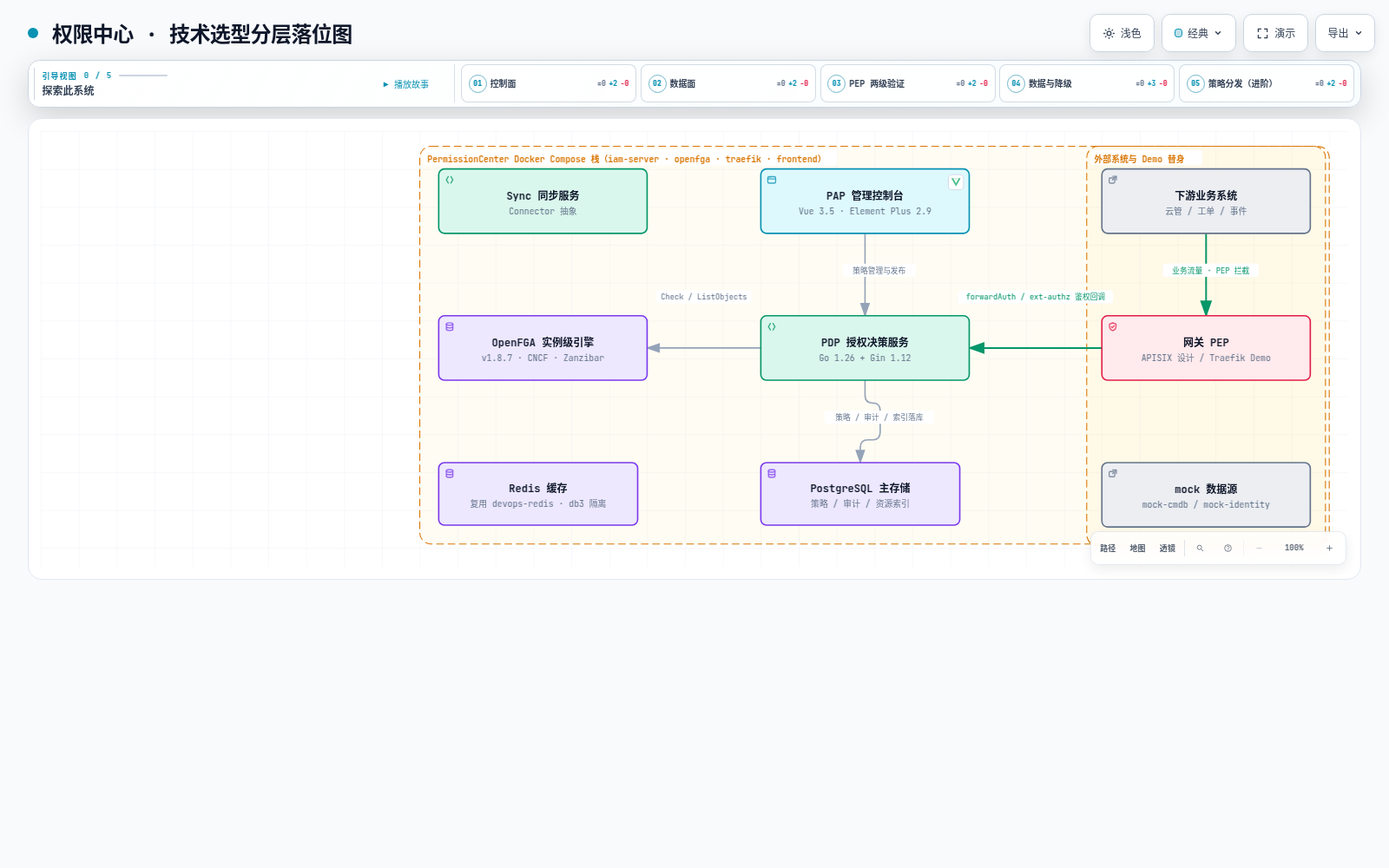
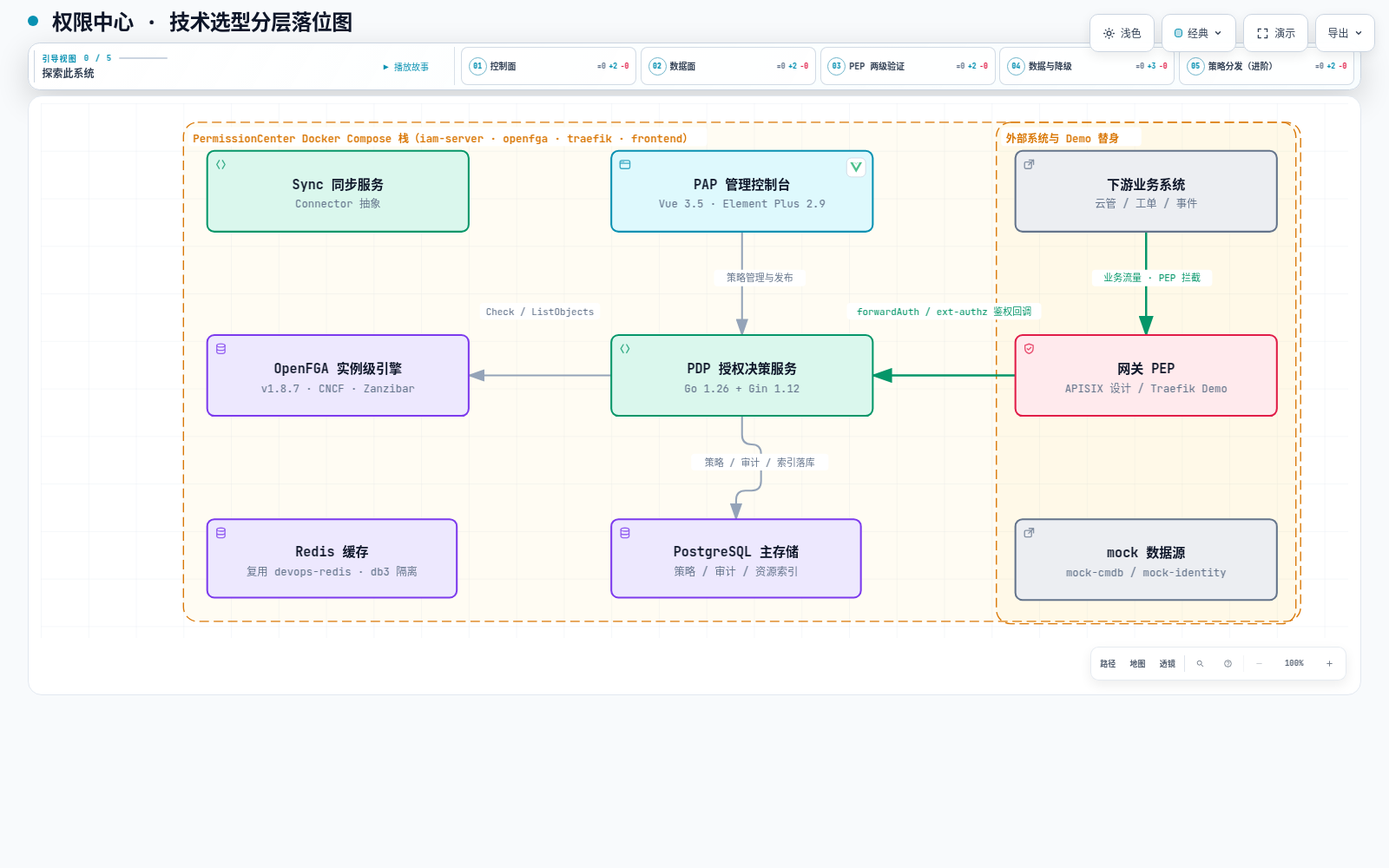
visuals: 03 图布局修正——viewBox 压缩至内容实际尺寸(1100x450)，消除左侧/底部空白

diff --git a/visuals/PermissionCenter/tech-stack-layers.html b/visuals/PermissionCenter/tech-stack-layers.html
@@ -5130,7 +5130,7 @@ OTHER DEALINGS IN THE FONT SOFTWARE.
     <!-- Main Diagram -->
     <div class="diagram-container" data-detail-level="read"
          data-preset-badge-editorial-plate="ARCHIFY / 图版 04">
-      <svg viewBox="0 0 1380 460" role="img" lang="zh-CN" aria-labelledby="archify-diagram-title archify-diagram-description" data-preset="classic" data-quality-profile="showcase">
+      <svg viewBox="0 0 1100 450" role="img" lang="zh-CN" aria-labelledby="archify-diagram-title archify-diagram-description" data-preset="classic" data-quality-profile="showcase">
         <title id="archify-diagram-title">权限中心 · 技术选型分层落位图</title>
         <desc id="archify-diagram-description">由 Archify 生成的架构图。</desc>
         <!-- Definitions -->
@@ -5156,171 +5156,171 @@ OTHER DEALINGS IN THE FONT SOFTWARE.
         <rect width="100%" height="100%" fill="url(#grid)" />
 
         <!-- Boundaries (behind everything) -->
-        <rect data-graph-role="structural-frame" data-composition-frame-kind="region" data-composition-frame-id="0" data-composition-frame-label="PermissionCenter Docker Compose 栈（iam-server · openfga · traefik · frontend）" x="400" y="16" width="960" height="420" rx="12" class="c-region" stroke-width="1"/>
+        <rect data-graph-role="structural-frame" data-composition-frame-kind="region" data-composition-frame-id="0" data-composition-frame-label="PermissionCenter Docker Compose 栈（iam-server · openfga · traefik · frontend）" x="120" y="16" width="940" height="420" rx="12" class="c-region" stroke-width="1"/>
 
-        <rect data-graph-role="structural-frame" data-composition-frame-kind="region" data-composition-frame-id="1" data-composition-frame-label="外部系统与 Demo 替身" x="1104" y="16" width="252" height="422" rx="12" class="c-region" stroke-width="1"/>
+        <rect data-graph-role="structural-frame" data-composition-frame-kind="region" data-composition-frame-id="1" data-composition-frame-label="外部系统与 Demo 替身" x="804" y="16" width="252" height="422" rx="12" class="c-region" stroke-width="1"/>
 
         <!-- Connection paths (before components for correct z-order) -->
-        <path data-edge-from="apps" data-edge-to="gw" data-edge-label="业务流量 · PEP 拦截" data-edge-key="0" data-composition-points="1230,108;1230,195" d="M 1230 108 L 1230 195" class="a-emphasis" stroke-width="1.8" marker-end="url(#arrowhead-emphasis)"/>
-        <path data-edge-from="gw" data-edge-to="pdp" data-edge-label="forwardAuth / ext-authz 鉴权回调" data-edge-key="1" data-composition-points="1120,229;980,229" d="M 1120 229 L 980 229" class="a-emphasis" stroke-width="1.8" marker-end="url(#arrowhead-emphasis)"/>
-        <path data-edge-from="pap" data-edge-to="pdp" data-edge-label="策略管理与发布" data-edge-key="2" data-composition-points="870,108;870,195" d="M 870 108 L 870 195" class="a-default" stroke-width="1.5" marker-end="url(#arrowhead)"/>
-        <path data-edge-from="pdp" data-edge-to="openfga" data-edge-label="Check / ListObjects" data-edge-key="3" data-composition-points="760,229;640,229" d="M 760 229 L 640 229" class="a-default" stroke-width="1.5" marker-end="url(#arrowhead)"/>
-        <path data-edge-from="pdp" data-edge-to="pg" data-edge-label="策略 / 审计 / 索引落库" data-edge-key="4" data-composition-points="870,263;870,287;886,287;886,326;865,326;865,350" d="M 870 263 L 870 279 Q 870 287 878 287 L 878 287 Q 886 287 886 295 L 886 318 Q 886 326 878 326 L 873 326 Q 865 326 865 334 L 865 350" class="a-default" stroke-width="1.5" marker-end="url(#arrowhead)"/>
+        <path data-edge-from="apps" data-edge-to="gw" data-edge-label="业务流量 · PEP 拦截" data-edge-key="0" data-composition-points="930,108;930,195" d="M 930 108 L 930 195" class="a-emphasis" stroke-width="1.8" marker-end="url(#arrowhead-emphasis)"/>
+        <path data-edge-from="gw" data-edge-to="pdp" data-edge-label="forwardAuth / ext-authz 鉴权回调" data-edge-key="1" data-composition-points="820,229;700,229" d="M 820 229 L 700 229" class="a-emphasis" stroke-width="1.8" marker-end="url(#arrowhead-emphasis)"/>
+        <path data-edge-from="pap" data-edge-to="pdp" data-edge-label="策略管理与发布" data-edge-key="2" data-composition-points="590,108;590,195" d="M 590 108 L 590 195" class="a-default" stroke-width="1.5" marker-end="url(#arrowhead)"/>
+        <path data-edge-from="pdp" data-edge-to="openfga" data-edge-label="Check / ListObjects" data-edge-key="3" data-composition-points="480,229;360,229" d="M 480 229 L 360 229" class="a-default" stroke-width="1.5" marker-end="url(#arrowhead)"/>
+        <path data-edge-from="pdp" data-edge-to="pg" data-edge-label="策略 / 审计 / 索引落库" data-edge-key="4" data-composition-points="590,263;590,287;606,287;606,326;585,326;585,350" d="M 590 263 L 590 279 Q 590 287 598 287 L 598 287 Q 606 287 606 295 L 606 318 Q 606 326 598 326 L 593 326 Q 585 326 585 334 L 585 350" class="a-default" stroke-width="1.5" marker-end="url(#arrowhead)"/>
 
         <!-- Components -->
         <g id="node-sync" data-node-id="sync" data-node-label="Sync 同步服务" tabindex="0" role="button" aria-label="聚焦Sync 同步服务，Connector 抽象, PermissionCenter Docker Compose 栈（iam-server · openfga · traefik · frontend）" aria-pressed="false" data-node-kind="backend" data-node-sublabel="Connector 抽象" data-node-tag="OpenAPI→模板 · CMDB→索引 · SCIM 身份" data-node-context="PermissionCenter Docker Compose 栈（iam-server · openfga · traefik · frontend）">
           <title>Sync 同步服务 · Connector 抽象 · PermissionCenter Docker Compose 栈（iam-server · openfga · traefik · frontend） · OpenAPI→模板 · CMDB→索引 · SCIM 身份</title>
-          <rect x="420" y="40" width="220" height="68" rx="6" class="c-mask"/>
-          <rect x="420" y="40" width="220" height="68" rx="6" class="c-backend" stroke-width="1.5"/>
-          <g aria-hidden="true" data-semantic-sigil="backend" class="semantic-sigil s-backend" transform="translate(426 46) scale(0.6875)">
+          <rect x="140" y="40" width="220" height="68" rx="6" class="c-mask"/>
+          <rect x="140" y="40" width="220" height="68" rx="6" class="c-backend" stroke-width="1.5"/>
+          <g aria-hidden="true" data-semantic-sigil="backend" class="semantic-sigil s-backend" transform="translate(146 46) scale(0.6875)">
             <path d="M6 3 3 8l3 5M10 3l3 5-3 5"/>
           </g>
-          <text data-node-label="" data-detail-anchor="" x="530" y="72" class="t-primary" font-size="11" font-weight="600" text-anchor="middle">Sync 同步服务</text>
-        <text data-detail="context" x="530" y="88" class="t-muted" font-size="9" text-anchor="middle">Connector 抽象</text>
-        <text data-detail="fine" x="530" y="100" class="t-backend" font-size="7" text-anchor="middle">OpenAPI→模板 · CMDB→索引 · SCIM 身份</text>
+          <text data-node-label="" data-detail-anchor="" x="250" y="72" class="t-primary" font-size="11" font-weight="600" text-anchor="middle">Sync 同步服务</text>
+        <text data-detail="context" x="250" y="88" class="t-muted" font-size="9" text-anchor="middle">Connector 抽象</text>
+        <text data-detail="fine" x="250" y="100" class="t-backend" font-size="7" text-anchor="middle">OpenAPI→模板 · CMDB→索引 · SCIM 身份</text>
         </g>
 
         <g id="node-pap" data-node-id="pap" data-node-label="PAP 管理控制台" tabindex="0" role="button" aria-label="聚焦PAP 管理控制台，Vue 3.5 · Element Plus 2.9, PermissionCenter Docker Compose 栈（iam-server · openfga · traefik · frontend）, Vue.js" aria-pressed="false" data-node-kind="frontend" data-node-sublabel="Vue 3.5 · Element Plus 2.9" data-node-tag="以我为中心工作台 · 弱管理员" data-node-context="PermissionCenter Docker Compose 栈（iam-server · openfga · traefik · frontend）" data-node-brand="Vue.js" data-node-brand-id="vue" data-node-brand-status="preset" data-node-brand-source="https://github.com/vuejs/art/blob/a1c78b74569b70a25300925b4eacfefcc143b8f6/logo.svg">
           <title>PAP 管理控制台 · Vue 3.5 · Element Plus 2.9 · PermissionCenter Docker Compose 栈（iam-server · openfga · traefik · frontend） · 以我为中心工作台 · 弱管理员 · Vue.js</title>
-          <rect x="760" y="40" width="220" height="68" rx="6" class="c-mask"/>
-          <rect x="760" y="40" width="220" height="68" rx="6" class="c-frontend" stroke-width="1.5"/>
-          <g aria-hidden="true" data-semantic-sigil="frontend" class="semantic-sigil s-frontend" transform="translate(766 46) scale(0.6875)">
+          <rect x="480" y="40" width="220" height="68" rx="6" class="c-mask"/>
+          <rect x="480" y="40" width="220" height="68" rx="6" class="c-frontend" stroke-width="1.5"/>
+          <g aria-hidden="true" data-semantic-sigil="frontend" class="semantic-sigil s-frontend" transform="translate(486 46) scale(0.6875)">
             <rect x="2" y="3" width="12" height="10" rx="2"/>
             <path d="M2 6.5h12"/>
             <circle cx="4.1" cy="4.8" r=".7" class="sigil-fill"/>
             <circle cx="6.3" cy="4.8" r=".7" class="sigil-fill"/>
           </g>
-          <g aria-hidden="true" data-brand-mark="vue" data-brand-title="Vue.js" data-brand-status="preset" data-brand-source="https://github.com/vuejs/art/blob/a1c78b74569b70a25300925b4eacfefcc143b8f6/logo.svg" class="brand-mark" transform="translate(958 46)">
+          <g aria-hidden="true" data-brand-mark="vue" data-brand-title="Vue.js" data-brand-status="preset" data-brand-source="https://github.com/vuejs/art/blob/a1c78b74569b70a25300925b4eacfefcc143b8f6/logo.svg" class="brand-mark" transform="translate(678 46)">
             <rect width="16" height="16" rx="4" class="brand-mark-badge"/>
             <path d="M24,1.61H14.06L12,5.16,9.94,1.61H0L12,22.39ZM12,14.08,5.16,2.23H9.59L12,6.41l2.41-4.18h4.43Z" transform="translate(3 3) scale(0.4166666666666667)" fill="#4FC08D"/>
             <rect width="16" height="16" rx="4" class="brand-mark-frame"/>
           </g>
-          <text data-node-label="" data-detail-anchor="" x="870" y="72" class="t-primary" font-size="11" font-weight="600" text-anchor="middle">PAP 管理控制台</text>
-        <text data-detail="context" x="870" y="88" class="t-muted" font-size="9" text-anchor="middle">Vue 3.5 · Element Plus 2.9</text>
-        <text data-detail="fine" x="870" y="100" class="t-frontend" font-size="7" text-anchor="middle">以我为中心工作台 · 弱管理员</text>
+          <text data-node-label="" data-detail-anchor="" x="590" y="72" class="t-primary" font-size="11" font-weight="600" text-anchor="middle">PAP 管理控制台</text>
+        <text data-detail="context" x="590" y="88" class="t-muted" font-size="9" text-anchor="middle">Vue 3.5 · Element Plus 2.9</text>
+        <text data-detail="fine" x="590" y="100" class="t-frontend" font-size="7" text-anchor="middle">以我为中心工作台 · 弱管理员</text>
         </g>
 
         <g id="node-openfga" data-node-id="openfga" data-node-label="OpenFGA 实例级引擎" tabindex="0" role="button" aria-label="聚焦OpenFGA 实例级引擎，v1.8.7 · CNCF · Zanzibar, PermissionCenter Docker Compose 栈（iam-server · openfga · traefik · frontend）" aria-pressed="false" data-node-kind="database" data-node-sublabel="v1.8.7 · CNCF · Zanzibar" data-node-tag="Check / ListObjects · 自有 datastore" data-node-context="PermissionCenter Docker Compose 栈（iam-server · openfga · traefik · frontend）">
           <title>OpenFGA 实例级引擎 · v1.8.7 · CNCF · Zanzibar · PermissionCenter Docker Compose 栈（iam-server · openfga · traefik · frontend） · Check / ListObjects · 自有 datastore</title>
-          <rect x="420" y="195" width="220" height="68" rx="6" class="c-mask"/>
-          <rect x="420" y="195" width="220" height="68" rx="6" class="c-database" stroke-width="1.5"/>
-          <g aria-hidden="true" data-semantic-sigil="database" class="semantic-sigil s-database" transform="translate(426 201) scale(0.6875)">
+          <rect x="140" y="195" width="220" height="68" rx="6" class="c-mask"/>
+          <rect x="140" y="195" width="220" height="68" rx="6" class="c-database" stroke-width="1.5"/>
+          <g aria-hidden="true" data-semantic-sigil="database" class="semantic-sigil s-database" transform="translate(146 201) scale(0.6875)">
             <ellipse cx="8" cy="4" rx="5" ry="2"/>
             <path d="M3 4v8c0 1.1 2.2 2 5 2s5-.9 5-2V4M3 8c0 1.1 2.2 2 5 2s5-.9 5-2"/>
           </g>
-          <text data-node-label="" data-detail-anchor="" x="530" y="227" class="t-primary" font-size="11" font-weight="600" text-anchor="middle">OpenFGA 实例级引擎</text>
-        <text data-detail="context" x="530" y="243" class="t-muted" font-size="9" text-anchor="middle">v1.8.7 · CNCF · Zanzibar</text>
-        <text data-detail="fine" x="530" y="255" class="t-database" font-size="7" text-anchor="middle">Check / ListObjects · 自有 datastore</text>
+          <text data-node-label="" data-detail-anchor="" x="250" y="227" class="t-primary" font-size="11" font-weight="600" text-anchor="middle">OpenFGA 实例级引擎</text>
+        <text data-detail="context" x="250" y="243" class="t-muted" font-size="9" text-anchor="middle">v1.8.7 · CNCF · Zanzibar</text>
+        <text data-detail="fine" x="250" y="255" class="t-database" font-size="7" text-anchor="middle">Check / ListObjects · 自有 datastore</text>
         </g>
 
         <g id="node-pdp" data-node-id="pdp" data-node-label="PDP 授权决策服务" tabindex="0" role="button" aria-label="聚焦PDP 授权决策服务，Go 1.26 + Gin 1.12, PermissionCenter Docker Compose 栈（iam-server · openfga · traefik · frontend）" aria-pressed="false" data-node-kind="backend" data-node-sublabel="Go 1.26 + Gin 1.12" data-node-tag="动作级 Casbin · OAuth M2M · 无状态扩展" data-node-context="PermissionCenter Docker Compose 栈（iam-server · openfga · traefik · frontend）">
           <title>PDP 授权决策服务 · Go 1.26 + Gin 1.12 · PermissionCenter Docker Compose 栈（iam-server · openfga · traefik · frontend） · 动作级 Casbin · OAuth M2M · 无状态扩展</title>
-          <rect x="760" y="195" width="220" height="68" rx="6" class="c-mask"/>
-          <rect x="760" y="195" width="220" height="68" rx="6" class="c-backend" stroke-width="1.5"/>
-          <g aria-hidden="true" data-semantic-sigil="backend" class="semantic-sigil s-backend" transform="translate(766 201) scale(0.6875)">
+          <rect x="480" y="195" width="220" height="68" rx="6" class="c-mask"/>
+          <rect x="480" y="195" width="220" height="68" rx="6" class="c-backend" stroke-width="1.5"/>
+          <g aria-hidden="true" data-semantic-sigil="backend" class="semantic-sigil s-backend" transform="translate(486 201) scale(0.6875)">
             <path d="M6 3 3 8l3 5M10 3l3 5-3 5"/>
           </g>
-          <text data-node-label="" data-detail-anchor="" x="870" y="227" class="t-primary" font-size="11" font-weight="600" text-anchor="middle">PDP 授权决策服务</text>
-        <text data-detail="context" x="870" y="243" class="t-muted" font-size="9" text-anchor="middle">Go 1.26 + Gin 1.12</text>
-        <text data-detail="fine" x="870" y="255" class="t-backend" font-size="7" text-anchor="middle">动作级 Casbin · OAuth M2M · 无状态扩展</text>
+          <text data-node-label="" data-detail-anchor="" x="590" y="227" class="t-primary" font-size="11" font-weight="600" text-anchor="middle">PDP 授权决策服务</text>
+        <text data-detail="context" x="590" y="243" class="t-muted" font-size="9" text-anchor="middle">Go 1.26 + Gin 1.12</text>
+        <text data-detail="fine" x="590" y="255" class="t-backend" font-size="7" text-anchor="middle">动作级 Casbin · OAuth M2M · 无状态扩展</text>
         </g>
 
         <g id="node-redis" data-node-id="redis" data-node-label="Redis 缓存" tabindex="0" role="button" aria-label="聚焦Redis 缓存，复用 devops-redis · db3 隔离, PermissionCenter Docker Compose 栈（iam-server · openfga · traefik · frontend）" aria-pressed="false" data-node-kind="database" data-node-sublabel="复用 devops-redis · db3 隔离" data-node-tag="策略/决策缓存 · Streams 两用" data-node-context="PermissionCenter Docker Compose 栈（iam-server · openfga · traefik · frontend）">
           <title>Redis 缓存 · 复用 devops-redis · db3 隔离 · PermissionCenter Docker Compose 栈（iam-server · openfga · traefik · frontend） · 策略/决策缓存 · Streams 两用</title>
-          <rect x="420" y="350" width="210" height="66" rx="6" class="c-mask"/>
-          <rect x="420" y="350" width="210" height="66" rx="6" class="c-database" stroke-width="1.5"/>
-          <g aria-hidden="true" data-semantic-sigil="database" class="semantic-sigil s-database" transform="translate(426 356) scale(0.6875)">
+          <rect x="140" y="350" width="210" height="66" rx="6" class="c-mask"/>
+          <rect x="140" y="350" width="210" height="66" rx="6" class="c-database" stroke-width="1.5"/>
+          <g aria-hidden="true" data-semantic-sigil="database" class="semantic-sigil s-database" transform="translate(146 356) scale(0.6875)">
             <ellipse cx="8" cy="4" rx="5" ry="2"/>
             <path d="M3 4v8c0 1.1 2.2 2 5 2s5-.9 5-2V4M3 8c0 1.1 2.2 2 5 2s5-.9 5-2"/>
           </g>
-          <text data-node-label="" data-detail-anchor="" x="525" y="381" class="t-primary" font-size="11" font-weight="600" text-anchor="middle">Redis 缓存</text>
-        <text data-detail="context" x="525" y="397" class="t-muted" font-size="9" text-anchor="middle">复用 devops-redis · db3 隔离</text>
-        <text data-detail="fine" x="525" y="408" class="t-database" font-size="7" text-anchor="middle">策略/决策缓存 · Streams 两用</text>
+          <text data-node-label="" data-detail-anchor="" x="245" y="381" class="t-primary" font-size="11" font-weight="600" text-anchor="middle">Redis 缓存</text>
+        <text data-detail="context" x="245" y="397" class="t-muted" font-size="9" text-anchor="middle">复用 devops-redis · db3 隔离</text>
+        <text data-detail="fine" x="245" y="408" class="t-database" font-size="7" text-anchor="middle">策略/决策缓存 · Streams 两用</text>
         </g>
 
         <g id="node-pg" data-node-id="pg" data-node-label="PostgreSQL 主存储" tabindex="0" role="button" aria-label="聚焦PostgreSQL 主存储，策略 / 审计 / 资源索引, PermissionCenter Docker Compose 栈（iam-server · openfga · traefik · frontend）" aria-pressed="false" data-node-kind="database" data-node-sublabel="策略 / 审计 / 资源索引" data-node-tag="追加写 · 按月分区" data-node-context="PermissionCenter Docker Compose 栈（iam-server · openfga · traefik · frontend）">
           <title>PostgreSQL 主存储 · 策略 / 审计 / 资源索引 · PermissionCenter Docker Compose 栈（iam-server · openfga · traefik · frontend） · 追加写 · 按月分区</title>
-          <rect x="760" y="350" width="210" height="66" rx="6" class="c-mask"/>
-          <rect x="760" y="350" width="210" height="66" rx="6" class="c-database" stroke-width="1.5"/>
-          <g aria-hidden="true" data-semantic-sigil="database" class="semantic-sigil s-database" transform="translate(766 356) scale(0.6875)">
+          <rect x="480" y="350" width="210" height="66" rx="6" class="c-mask"/>
+          <rect x="480" y="350" width="210" height="66" rx="6" class="c-database" stroke-width="1.5"/>
+          <g aria-hidden="true" data-semantic-sigil="database" class="semantic-sigil s-database" transform="translate(486 356) scale(0.6875)">
             <ellipse cx="8" cy="4" rx="5" ry="2"/>
             <path d="M3 4v8c0 1.1 2.2 2 5 2s5-.9 5-2V4M3 8c0 1.1 2.2 2 5 2s5-.9 5-2"/>
           </g>
-          <text data-node-label="" data-detail-anchor="" x="865" y="381" class="t-primary" font-size="11" font-weight="600" text-anchor="middle">PostgreSQL 主存储</text>
-        <text data-detail="context" x="865" y="397" class="t-muted" font-size="9" text-anchor="middle">策略 / 审计 / 资源索引</text>
-        <text data-detail="fine" x="865" y="408" class="t-database" font-size="7" text-anchor="middle">追加写 · 按月分区</text>
+          <text data-node-label="" data-detail-anchor="" x="585" y="381" class="t-primary" font-size="11" font-weight="600" text-anchor="middle">PostgreSQL 主存储</text>
+        <text data-detail="context" x="585" y="397" class="t-muted" font-size="9" text-anchor="middle">策略 / 审计 / 资源索引</text>
+        <text data-detail="fine" x="585" y="408" class="t-database" font-size="7" text-anchor="middle">追加写 · 按月分区</text>
         </g>
 
         <g id="node-apps" data-node-id="apps" data-node-label="下游业务系统" tabindex="0" role="button" aria-label="聚焦下游业务系统，云管 / 工单 / 事件, 外部系统与 Demo 替身" aria-pressed="false" data-node-kind="external" data-node-sublabel="云管 / 工单 / 事件" data-node-tag="零权限代码 · 只读身份头" data-node-context="外部系统与 Demo 替身">
           <title>下游业务系统 · 云管 / 工单 / 事件 · 外部系统与 Demo 替身 · 零权限代码 · 只读身份头</title>
-          <rect x="1120" y="40" width="220" height="68" rx="6" class="c-mask"/>
-          <rect x="1120" y="40" width="220" height="68" rx="6" class="c-external" stroke-width="1.5"/>
-          <g aria-hidden="true" data-semantic-sigil="external" class="semantic-sigil s-external" transform="translate(1126 46) scale(0.6875)">
+          <rect x="820" y="40" width="220" height="68" rx="6" class="c-mask"/>
+          <rect x="820" y="40" width="220" height="68" rx="6" class="c-external" stroke-width="1.5"/>
+          <g aria-hidden="true" data-semantic-sigil="external" class="semantic-sigil s-external" transform="translate(826 46) scale(0.6875)">
             <rect x="2.5" y="5" width="8.5" height="8" rx="1.5"/>
             <path d="M8 2.5h5.5V8M13.5 2.5 7.5 8.5"/>
           </g>
-          <text data-node-label="" data-detail-anchor="" x="1230" y="72" class="t-primary" font-size="11" font-weight="600" text-anchor="middle">下游业务系统</text>
-        <text data-detail="context" x="1230" y="88" class="t-muted" font-size="9" text-anchor="middle">云管 / 工单 / 事件</text>
-        <text data-detail="fine" x="1230" y="100" class="t-external" font-size="7" text-anchor="middle">零权限代码 · 只读身份头</text>
+          <text data-node-label="" data-detail-anchor="" x="930" y="72" class="t-primary" font-size="11" font-weight="600" text-anchor="middle">下游业务系统</text>
+        <text data-detail="context" x="930" y="88" class="t-muted" font-size="9" text-anchor="middle">云管 / 工单 / 事件</text>
+        <text data-detail="fine" x="930" y="100" class="t-external" font-size="7" text-anchor="middle">零权限代码 · 只读身份头</text>
         </g>
 
         <g id="node-gw" data-node-id="gw" data-node-label="网关 PEP" tabindex="0" role="button" aria-label="聚焦网关 PEP，APISIX 设计 / Traefik Demo, PermissionCenter Docker Compose 栈（iam-server · openfga · traefik · frontend）" aria-pressed="false" data-node-kind="security" data-node-sublabel="APISIX 设计 / Traefik Demo" data-node-tag="forwardAuth → /v1/gateway/check" data-node-context="PermissionCenter Docker Compose 栈（iam-server · openfga · traefik · frontend）">
           <title>网关 PEP · APISIX 设计 / Traefik Demo · PermissionCenter Docker Compose 栈（iam-server · openfga · traefik · frontend） · forwardAuth → /v1/gateway/check</title>
-          <rect x="1120" y="195" width="220" height="68" rx="6" class="c-mask"/>
-          <rect x="1120" y="195" width="220" height="68" rx="6" class="c-security" stroke-width="1.5"/>
-          <g aria-hidden="true" data-semantic-sigil="security" class="semantic-sigil s-security" transform="translate(1126 201) scale(0.6875)">
+          <rect x="820" y="195" width="220" height="68" rx="6" class="c-mask"/>
+          <rect x="820" y="195" width="220" height="68" rx="6" class="c-security" stroke-width="1.5"/>
+          <g aria-hidden="true" data-semantic-sigil="security" class="semantic-sigil s-security" transform="translate(826 201) scale(0.6875)">
             <path d="M8 2.2 13 4v3.5c0 3.1-1.8 5.4-5 6.5-3.2-1.1-5-3.4-5-6.5V4Z"/>
             <path d="m5.8 8 1.5 1.5 3-3"/>
           </g>
-          <text data-node-label="" data-detail-anchor="" x="1230" y="227" class="t-primary" font-size="11" font-weight="600" text-anchor="middle">网关 PEP</text>
-        <text data-detail="context" x="1230" y="243" class="t-muted" font-size="9" text-anchor="middle">APISIX 设计 / Traefik Demo</text>
-        <text data-detail="fine" x="1230" y="255" class="t-security" font-size="7" text-anchor="middle">forwardAuth → /v1/gateway/check</text>
+          <text data-node-label="" data-detail-anchor="" x="930" y="227" class="t-primary" font-size="11" font-weight="600" text-anchor="middle">网关 PEP</text>
+        <text data-detail="context" x="930" y="243" class="t-muted" font-size="9" text-anchor="middle">APISIX 设计 / Traefik Demo</text>
+        <text data-detail="fine" x="930" y="255" class="t-security" font-size="7" text-anchor="middle">forwardAuth → /v1/gateway/check</text>
         </g>
 
         <g id="node-mock" data-node-id="mock" data-node-label="mock 数据源" tabindex="0" role="button" aria-label="聚焦mock 数据源，mock-cmdb / mock-identity, 外部系统与 Demo 替身" aria-pressed="false" data-node-kind="external" data-node-sublabel="mock-cmdb / mock-identity" data-node-tag="替身演示同步 · 降级 · JML" data-node-context="外部系统与 Demo 替身">
           <title>mock 数据源 · mock-cmdb / mock-identity · 外部系统与 Demo 替身 · 替身演示同步 · 降级 · JML</title>
-          <rect x="1120" y="350" width="220" height="68" rx="6" class="c-mask"/>
-          <rect x="1120" y="350" width="220" height="68" rx="6" class="c-external" stroke-width="1.5"/>
-          <g aria-hidden="true" data-semantic-sigil="external" class="semantic-sigil s-external" transform="translate(1126 356) scale(0.6875)">
+          <rect x="820" y="350" width="220" height="68" rx="6" class="c-mask"/>
+          <rect x="820" y="350" width="220" height="68" rx="6" class="c-external" stroke-width="1.5"/>
+          <g aria-hidden="true" data-semantic-sigil="external" class="semantic-sigil s-external" transform="translate(826 356) scale(0.6875)">
             <rect x="2.5" y="5" width="8.5" height="8" rx="1.5"/>
             <path d="M8 2.5h5.5V8M13.5 2.5 7.5 8.5"/>
           </g>
-          <text data-node-label="" data-detail-anchor="" x="1230" y="382" class="t-primary" font-size="11" font-weight="600" text-anchor="middle">mock 数据源</text>
-        <text data-detail="context" x="1230" y="398" class="t-muted" font-size="9" text-anchor="middle">mock-cmdb / mock-identity</text>
-        <text data-detail="fine" x="1230" y="410" class="t-external" font-size="7" text-anchor="middle">替身演示同步 · 降级 · JML</text>
+          <text data-node-label="" data-detail-anchor="" x="930" y="382" class="t-primary" font-size="11" font-weight="600" text-anchor="middle">mock 数据源</text>
+        <text data-detail="context" x="930" y="398" class="t-muted" font-size="9" text-anchor="middle">mock-cmdb / mock-identity</text>
+        <text data-detail="fine" x="930" y="410" class="t-external" font-size="7" text-anchor="middle">替身演示同步 · 降级 · JML</text>
         </g>
 
         <!-- Connection labels -->
         <g data-detail="context" data-edge-from="apps" data-edge-to="gw" data-edge-label="业务流量 · PEP 拦截" data-edge-key="0">
-          <rect x="1184.4" y="140" width="101.2" height="14" rx="3" class="c-mask"/>
-          <text x="1235" y="150" class="t-backend" font-size="8" text-anchor="middle">业务流量 · PEP 拦截</text>
+          <rect x="884.4" y="140" width="101.2" height="14" rx="3" class="c-mask"/>
+          <text x="935" y="150" class="t-backend" font-size="8" text-anchor="middle">业务流量 · PEP 拦截</text>
         </g>
         <g data-detail="context" data-edge-from="gw" data-edge-to="pdp" data-edge-label="forwardAuth / ext-authz 鉴权回调" data-edge-key="1">
-          <rect x="968.2" y="168" width="163.6" height="14" rx="3" class="c-mask"/>
-          <text x="1050" y="178" class="t-backend" font-size="8" text-anchor="middle">forwardAuth / ext-authz 鉴权回调</text>
+          <rect x="678.2" y="168" width="163.6" height="14" rx="3" class="c-mask"/>
+          <text x="760" y="178" class="t-backend" font-size="8" text-anchor="middle">forwardAuth / ext-authz 鉴权回调</text>
         </g>
         <g data-detail="context" data-edge-from="pap" data-edge-to="pdp" data-edge-label="策略管理与发布" data-edge-key="2">
-          <rect x="846.4" y="140" width="77.2" height="14" rx="3" class="c-mask"/>
-          <text x="885" y="150" class="t-muted" font-size="8" text-anchor="middle">策略管理与发布</text>
+          <rect x="566.4" y="140" width="77.2" height="14" rx="3" class="c-mask"/>
+          <text x="605" y="150" class="t-muted" font-size="8" text-anchor="middle">策略管理与发布</text>
         </g>
         <g data-detail="context" data-edge-from="pdp" data-edge-to="openfga" data-edge-label="Check / ListObjects" data-edge-key="3">
-          <rect x="649.4" y="168" width="101.2" height="14" rx="3" class="c-mask"/>
-          <text x="700" y="178" class="t-muted" font-size="8" text-anchor="middle">Check / ListObjects</text>
+          <rect x="369.4" y="168" width="101.2" height="14" rx="3" class="c-mask"/>
+          <text x="420" y="178" class="t-muted" font-size="8" text-anchor="middle">Check / ListObjects</text>
         </g>
         <g data-detail="context" data-edge-from="pdp" data-edge-to="pg" data-edge-label="策略 / 审计 / 索引落库" data-edge-key="4">
-          <rect x="827.2" y="295" width="115.6" height="14" rx="3" class="c-mask"/>
-          <text x="885" y="305" class="t-muted" font-size="8" text-anchor="middle">策略 / 审计 / 索引落库</text>
+          <rect x="547.2" y="295" width="115.6" height="14" rx="3" class="c-mask"/>
+          <text x="605" y="305" class="t-muted" font-size="8" text-anchor="middle">策略 / 审计 / 索引落库</text>
         </g>
 
         <!-- Boundary labels (foreground masks keep routes out of titles) -->
         <g data-graph-role="structural-frame-label" data-composition-frame-id="0" data-composition-frame-kind="region" data-composition-frame-label="PermissionCenter Docker Compose 栈（iam-server · openfga · traefik · frontend）">
-          <rect data-graph-role="structural-frame-label-mask" x="404" y="20" width="436.59999999999997" height="16" rx="3" class="c-mask"/>
-          <text data-boundary-label="" x="408" y="33" class="t-cloud" font-size="9" font-weight="600">PermissionCenter Docker Compose 栈（iam-server · openfga · traefik · frontend）</text>
+          <rect data-graph-role="structural-frame-label-mask" x="124" y="20" width="436.59999999999997" height="16" rx="3" class="c-mask"/>
+          <text data-boundary-label="" x="128" y="33" class="t-cloud" font-size="9" font-weight="600">PermissionCenter Docker Compose 栈（iam-server · openfga · traefik · frontend）</text>
         </g>
 
         <g data-graph-role="structural-frame-label" data-composition-frame-id="1" data-composition-frame-kind="region" data-composition-frame-label="外部系统与 Demo 替身">
-          <rect data-graph-role="structural-frame-label-mask" x="1108" y="20" width="118" height="16" rx="3" class="c-mask"/>
-          <text data-boundary-label="" x="1112" y="33" class="t-cloud" font-size="9" font-weight="600">外部系统与 Demo 替身</text>
+          <rect data-graph-role="structural-frame-label-mask" x="808" y="20" width="118" height="16" rx="3" class="c-mask"/>
+          <text data-boundary-label="" x="812" y="33" class="t-cloud" font-size="9" font-weight="600">外部系统与 Demo 替身</text>
         </g>
 
         <!-- Legend -->
